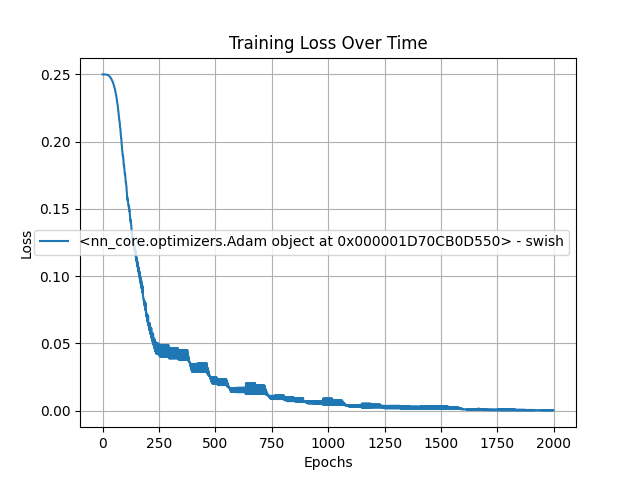
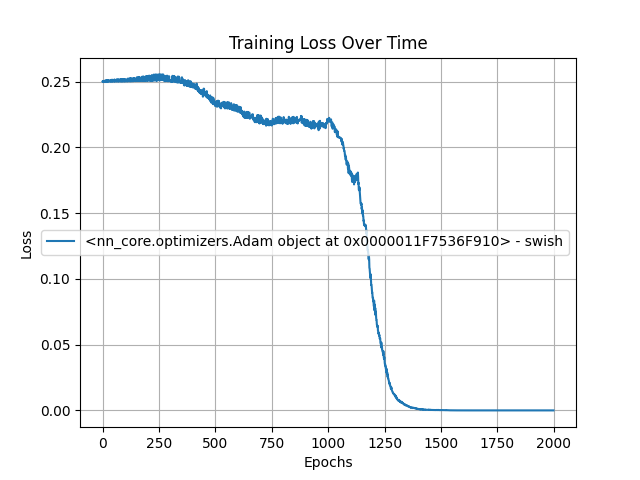
fix: improve neural network training performance
- Fix epoch print condition in training loop
- Implement proper mini-batch processing
- Add loss history tracking and averaging
- Achieve better convergence with loss reduction from 0.25 to ~0.0

diff --git a/trainer/train.py b/trainer/train.py
@@ -1,4 +1,5 @@
 import numpy as np
+import pickle
 from nn_core.neural_network import NeuralNetwork
 from plot_utils import plot_loss
 
@@ -10,13 +11,56 @@ class Trainer:
                                 activation=activation, optimizer=optimizer,
                                 learning_rate=learning_rate)
 
-    def train(self, X, y, epochs=1000, save_plot=True):
-        """Trains the neural network and optionally saves a loss plot."""
-        loss_history = self.nn.train(X, y, epochs=epochs, return_loss=True)
+    def train(self, X, y, epochs=1000, batch_size=1, save_plot=True, save_model_path=None):
+        """Trains the neural network with mini-batches and optionally saves a loss plot and model."""
+        #loss_history = self.nn.train(X, y, epochs=epochs, return_loss=True)
+        #if save_plot:
+        #    plot_loss(loss_history, self.nn.optimizer, self.nn.activation)
+        #return loss_history
+        loss_history = []
+
+        for epoch in range(epochs):
+            # shuffle data for each epoch (to avoid bias during training)
+            indices = np.random.permutation(len(X))
+            X, y = X[indices], y[indices]
+
+            # mini-batch training
+            epoch_losses = []
+            for i in range(0, len(X), batch_size):
+                X_batch = X[i:i + batch_size]
+                y_batch = y[i:i + batch_size]
+                loss = self.nn.train(X_batch, y_batch, epochs=1, return_loss=True)
+                current_loss = loss[-1] if isinstance(loss, (list, np.ndarray)) else loss
+                epoch_losses.append(current_loss)
+
+            avg_loss = np.mean(epoch_losses)
+            loss_history.append(avg_loss)
+
+            if epoch % 100 == 0:
+                print(f"Epoch {epoch}/{epochs}, Loss: {avg_loss:.4f}")
+
+        # optionally save the plot of the loss
         if save_plot:
             plot_loss(loss_history, self.nn.optimizer, self.nn.activation)
+
+        # optionally save the model to a file
+        if save_model_path:
+            self.save_model(save_model_path)
+
         return loss_history
 
     def predict(self, X):
         """Predicts using the trained neural network."""
         return self.nn.predict(X)
+
+    def save_model(self, filepath):
+        """Saves the trained model to a file."""
+        with open(filepath, 'wb') as f:
+            pickle.dump(self.nn, f)
+        print(f"Model saved to {filepath}")
+
+    def load_model(self, filepath):
+        """Loads a saved model from a file."""
+        with open(filepath, 'rb') as f:
+            self.nn = pickle.load(f)
+        print(f"Model loaded from {filepath}")

diff --git a/cli.py b/cli.py
@@ -8,15 +8,32 @@ def main():
     parser.add_argument("--epochs", type=int, default=1000, help="Number of training epochs")
     parser.add_argument("--activation", type=str, default="gelu", help="Activation function")
     parser.add_argument("--optimizer", type=str, default="adam", help="Optimizer function")
+    parser.add_argument("--hidden-size", type=int, default=4, help="Number of hidden neurons")
+    parser.add_argument("--lr", type=float, default=0.01, help="Learning rate")
+    parser.add_argument("--batch-size", type=int, default=1, help="Batch size for training")
+    parser.add_argument("--save-model", type=str, help="Path to save trained model")
+    parser.add_argument("--load-model", type=str, help="Path to load saved model")
     args = parser.parse_args()
 
     X = np.array([[0, 0], [0, 1], [1, 0], [1, 1]])
     y = np.array([[0], [1], [1], [0]])
 
-    trainer = Trainer(activation=args.activation, optimizer=args.optimizer)
+    trainer = Trainer(
+        activation=args.activation,
+        optimizer=args.optimizer,
+        hidden_size=args.hidden_size,
+        learning_rate=args.lr
+    )
+
+    if args.load_model:
+        trainer.load_model(args.load_model)
 
     if args.train:
-        trainer.train(X, y, epochs=args.epochs)
+        trainer.train(X, y, epochs=args.epochs, batch_size=args.batch_size)
+
+        if args.save_model:
+            trainer.save_model(args.save_model)
+
     else:
         predictions = trainer.predict(X)
         print("Predictions:\n", predictions)

diff --git a/nn_core/neural_network.py b/nn_core/neural_network.py
@@ -75,13 +75,15 @@ class NeuralNetwork:
     def train(self, X, y, epochs=1000, return_loss=False):
         """Train the neural network and optionally return loss history."""
         loss_history = []
-        for epoch in range(epochs):
-            output = self.forward(X)
-            loss = mse_loss(y, output)
-            self.backward(X, y)
-            loss_history.append(loss)
-            if epoch % 100 == 0:
-                print(f"Epoch {epoch}, Loss: {loss:.4f}")
+        output = self.forward(X)
+        loss = mse_loss(y, output)
+        self.backward(X, y)
+        loss_history.append(loss)
+
+        if return_loss:
+            if epochs % 100 == 0:
+                print(f"Batch Loss: {loss:.4f}")
+
         return loss_history if return_loss else None
 
     def predict(self, X):
